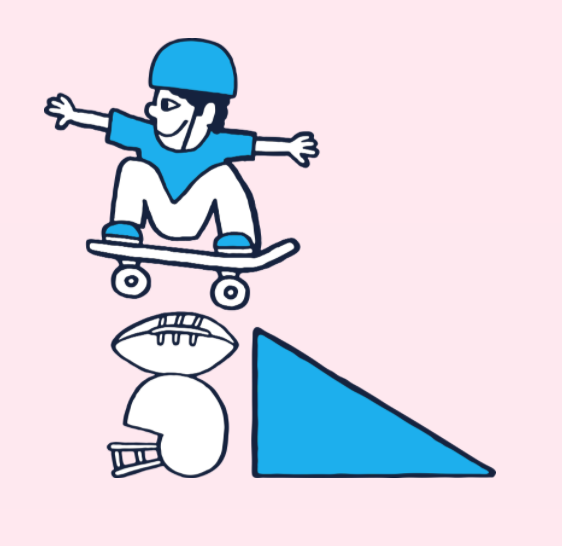
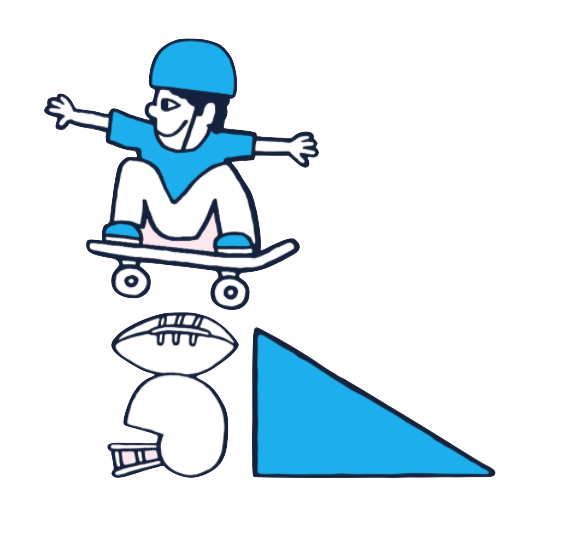
blake & sas updates

diff --git a/SAS/index.html b/SAS/index.html
@@ -79,7 +79,7 @@
 
         <div class="qna"><p><br><br>
 
-		<b>What year did y’all start doing this?</b><br>
+		<b>So what year did y’all start doing this?</b><br>
 		A version of what SAS would become started happening as far back as 2012, when
         I started collecting spare parts from friends and made a donation bin at the
         indoor skatepark I was working at at the time. When things really started to begin
@@ -87,24 +87,27 @@
         Lay got involved in the project as well.
 		<br><br>
 
-		<b>And how many schools are you involved with now?</b><br>
+		<b>Good guys to have on your team for sure. So how many schools are you
+involved with now?</b><br>
 
         “now” is tricky because we’ve existed in a sort of altered reality for the last year.
         But when things were normal, we were operating at 8 schools.<br><br>
 
-        <b>What are the age ranges of student participants?</b><br>
+        <b>Yeah weird times, but what are the age ranges of the participants when you are
+in full session?</b><br>
 
         We focus our program to kids who are 2nd grade through 6th grade so generally anywhere from 7 to 12.
 
 
         <br><br>
 
-        <b>How many students do you serve?</b><br>
+        <b>And how many students do you serve?</b><br>
 
         During normal times we see between 200 - 240 kids per week.<br><br>
        <img src="images/sasgroup.jpg" width=600 class=center><br>
 
-        <br><br><b>How many volunteers would you say you’ve had over the years?</b><br>
+        <br><br><b>Amazing man. I’m sure that’s a lot of work, how many volunteers have you all
+had over the years?</b><br>
 
         Oh wow, so many, and all such awesome people. Hard to say the exact amount
         because some people have stopped by to visit once or twice and some are regular
@@ -120,7 +123,8 @@
 
 
 
-        <b>How many skateboards have you provided for your kids over the years?</b><br>
+        <b>Real life heroes. I know a couple of those guys and can attest to their
+awesomeness. How many skateboards have you provided for the kids over the years?</b><br>
 
         That is really hard to quantify. Giving away skateboards isn’t necessarily
         something we ‘do’ or set out to do. We would occasionally give a brand new
@@ -158,7 +162,13 @@ reach?</b><br>
         We have built such amazing relationships with the kids we’ve worked with, the
         schools and administrators that we have worked with, and our amazing
         volunteers over the years, that I worry about expanding too much and too quickly
-        causing us to lose some of the magic that we have! What we talk about more in
+        causing us to lose some of the magic that we have! <br><br>
+        <b>Makes sense, do the best with what you can type attitude, I think everyone can
+appreciate that. So, what does expansion look like to you then?</b><br>
+
+
+
+        What we talk about more in
         the way of expanding is how we can build out a more robust and substantial
         program but keeping the scale and the size of our operation as small and
         manageable as it is now. We want to expand on our summer camp trips, where
@@ -196,18 +206,18 @@ small tweaks, but we have the benefit of being outside already.
 
 
 
-        <b>Where can people go to donate?</i></b><br>
+        <b>Important question: where can people go to donate?</i></b><br>
 
         People can go to skateafterschool.org/donate to support our programs. The best
 way is to sign up to be a ‘buddy’ and do a sustaining donation. You’ll get a cool pin
-too :)<br>
+too :)<br><br>
 
 <img src="images/sasbudd.jpg" width=600 class=center><br>
 
 
 
 
-         <br><br>
+         <br>
 
 
 
@@ -333,7 +343,7 @@ what you’re doing and thanks for doing this man, much love to you and yours.</
     
 
     <p>
-        Thanks for reading! If this article gave you the feels like it did for us, then feel free to do like we did and donate what you can at <a href="www.skateafterschool.org/donate">skateafterschool.org/donate</a> <br><br>
+        Thanks for reading! If this article gave you the feels like it did for us, then feel free to do like we did and donate what you can at <a href="https://www.skateafterschool.org/donate/">skateafterschool.org/donate</a> <br><br>
     
 
 </section>

diff --git a/blakecarpenter/index.html b/blakecarpenter/index.html
@@ -55,7 +55,8 @@
         
         <p>
 
-       Here's another statistical analysis & interview, this time featuring Mr. Blake Carpenter. Fortunately for everyone that can't switch flip back tail, we aren't currently in the business of plotting skaters against each other. Having said that, there will be a worldwide breakdown later this decade. Blake is currently at the top of the bump to bar leaderboard while simultaneously being dead last in transition. What a time to be alive.
+       Here's another statistical analysis & interview, this time featuring Mr. Blake Carpenter, another 'switch god'. That term seems to be thrown around a lot but Blake has the highest switch ratio of anyone we've looked at.
+       Fortunately, for all the other 'switch gods' out there, we aren't really in the business of comparing skaters. Having said that, there may be a worldwide breakdown coming later this decade. This would put Blake at the top of the switch and bump to bar leaderboards while simultaneously being dead last in transition. Well done.
 
 
         </p>
@@ -71,7 +72,7 @@
 		Pretty good man, how about you?
 		<br><br>
 
-		<b>I'm pretty good. Let's talk numbers. How many times have you pooped at the spot?</b><br>
+		<b>I'm doin' good! Let's talk numbers. How many times have you pooped at the spot?</b><br>
 
         Put down like 50 ahahah<br><br>
 
@@ -146,7 +147,7 @@
 
         <b>So for this Nike thing and you’ve got your own filmer are you filming more lines?</b><br>
 
-       He doesn't have a lens ahaha. It's unfortunate but whatever, I just make the best with what I got. I obviously have way more like personal goals towards like single tricks. I’m not like ‘oh I wanna like go to that spot and I really want to wallie that thing before I do that kickflip crook’. It's like <i>'No I just wanna crook the bitch'</i> ahaha.
+       He doesn't have a lens ahaha. It's unfortunate but whatever, I just make the best with what I got. I obviously have way more like personal goals towards like single tricks. I’m not like <i>‘oh I wanna like go to that spot and I really want to wallie that thing before I do that kickflip crook’</i>. It's like <i>'No I just wanna crook the bitch'</i> ahaha.
 
 
 
@@ -260,7 +261,10 @@
 
         <br><br><br><br><b class="loud">100% of tricks done stoned.</b><br><br>
 
-       
+       <!--  <img src="style/weedbg.gif" width=150% position=float> -->  
+       </p></div>
+
+       <div class="qna2"></div><div class=qna><p>     
 
         <br><br><b>There’s probably kids that read this right? </b><br>
 
@@ -503,13 +507,10 @@
 		<br><br></p></div>
 <br>
 
-    <center>
-        <img src="images/patgintro.jpg" width="300"><br></center>
-        <br><hr><br>
     
-
+<!-- 
     <p>
-        Thanks for reading :) <br><br>
+        I never managed to get to the bottom of what Blake had seen in the sky or how he knew about how many aliens may or may not be in Australia. He didn't seem to want to talk about it.  <br><br> </p> -->
     
 
 </section>

diff --git a/SAS/style/style.css b/SAS/style/style.css
@@ -12,7 +12,7 @@
 
 
 #whiteflannelbg {
-  background-color: rgba(255,255,255,0);
+  background-color: rgba(255,255,255,0.4);
   margin-top:4%;
   margin-left: 12%;
   margin-right:12%;
@@ -53,7 +53,7 @@ p.quote {
 
 
 body {
-	font-family: Changa;
+	font-family: Roboto;
 	color: #262520;
 	background-image: url(sasbg.jpeg);
   	background-repeat: repeat;
@@ -368,7 +368,7 @@ hr {
   flex: 1;
 }
 b {
-	font-family: Changa;
+	font-family: Roboto;
 	font-weight: bolder !important ;
 }
 
@@ -417,7 +417,7 @@ ul.a {
 }
 
 p, ul, li {
-	font-family: Changa;
+	font-family: Roboto;
 	padding-top: 0.5rem;
 }
 
@@ -479,7 +479,7 @@ g.tick text
 
 @media screen and (max-width: 900px) {
 	#whiteflannelbg {
-  background-color: rgba(255,255,255,0.75);
+  background-color: rgba(255,255,255,0.0);
   margin-top:4%;
   margin-left: 3%;
   margin-right:3%;
@@ -500,6 +500,10 @@ g.tick text
 	p {
 		font-size: 0.8rem;
 		max-width: 95%;
+	}
+
+	iframe {max-width:80%;
+
 	}
 
 	ul {

diff --git a/blakecarpenter/style/style.css b/blakecarpenter/style/style.css
@@ -12,7 +12,7 @@
 
 
 #whiteflannelbg {
-  background-color: rgba(255,255,255,0.9);
+  background-color: rgba(255,255,255,1);
   margin-top:4%;
   margin-left: 12%;
   margin-right:12%;
@@ -28,6 +28,14 @@
   margin-right: 3%;
   display: block;
   line-height: 500pt;
+}
+
+#qna2 {
+	background-image: url('../style/weedbg.gif');
+	background-repeat: repeat;
+	width:100%;
+	height:1000px;
+	position:absolute;
 }
 
 p.quote {
@@ -55,8 +63,8 @@ p.quote {
 body {
 	font-family: Changa;
 	color: #262520;
-	background-image: url(nikebg.jpeg), url("weedbg.gif");
-  	background-repeat: no-repeat,repeat;
+	background-image: url(nikebg.jpeg)/*, url("weedbg.gif")*/;
+  	background-repeat: repeat;
   	background-size:100%;
 }
 
@@ -89,6 +97,15 @@ a {
 **/
 
 /* .clr { clear: both; } */
+
+img#bg {
+
+	position:absolute;
+	z-index: -1;
+	display:block;
+}
+
+
 .centered { text-align: center; }
 .hidden  { 
 	display: none; 
